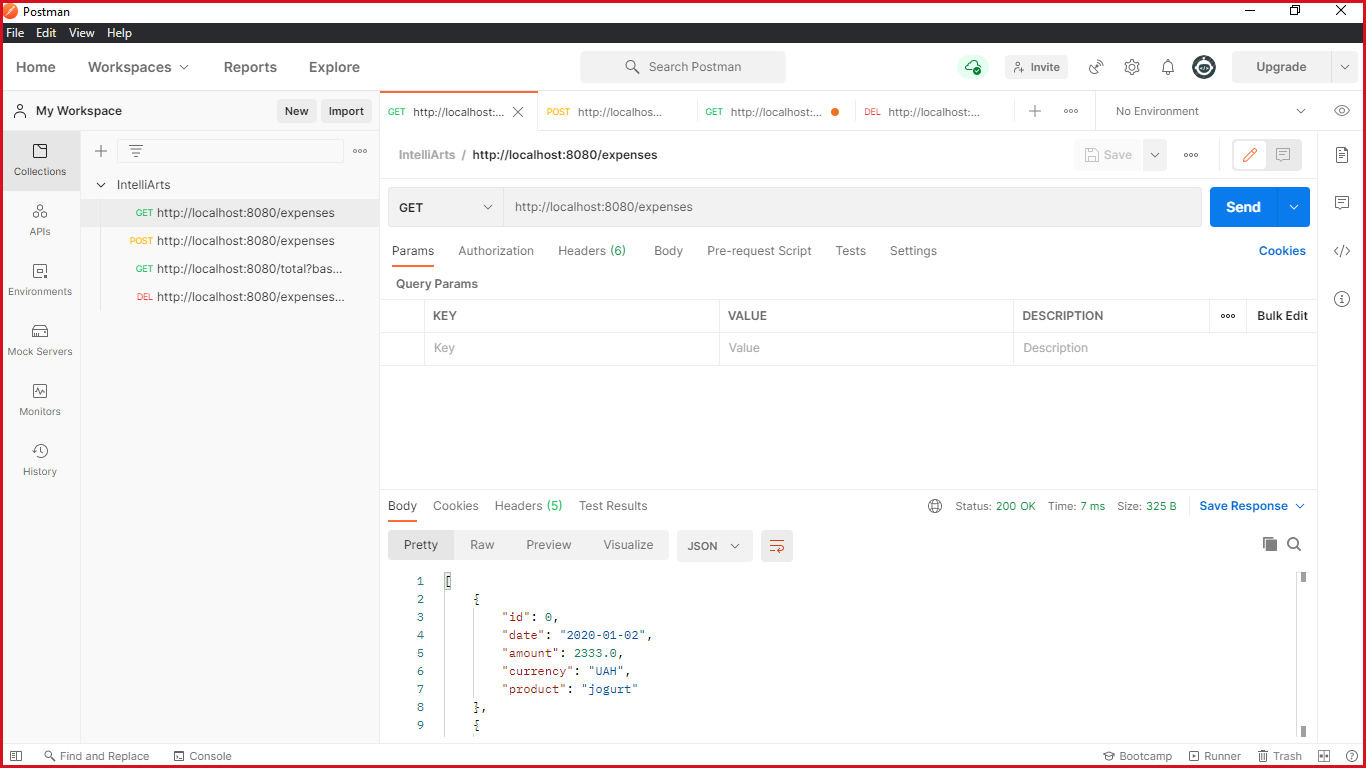
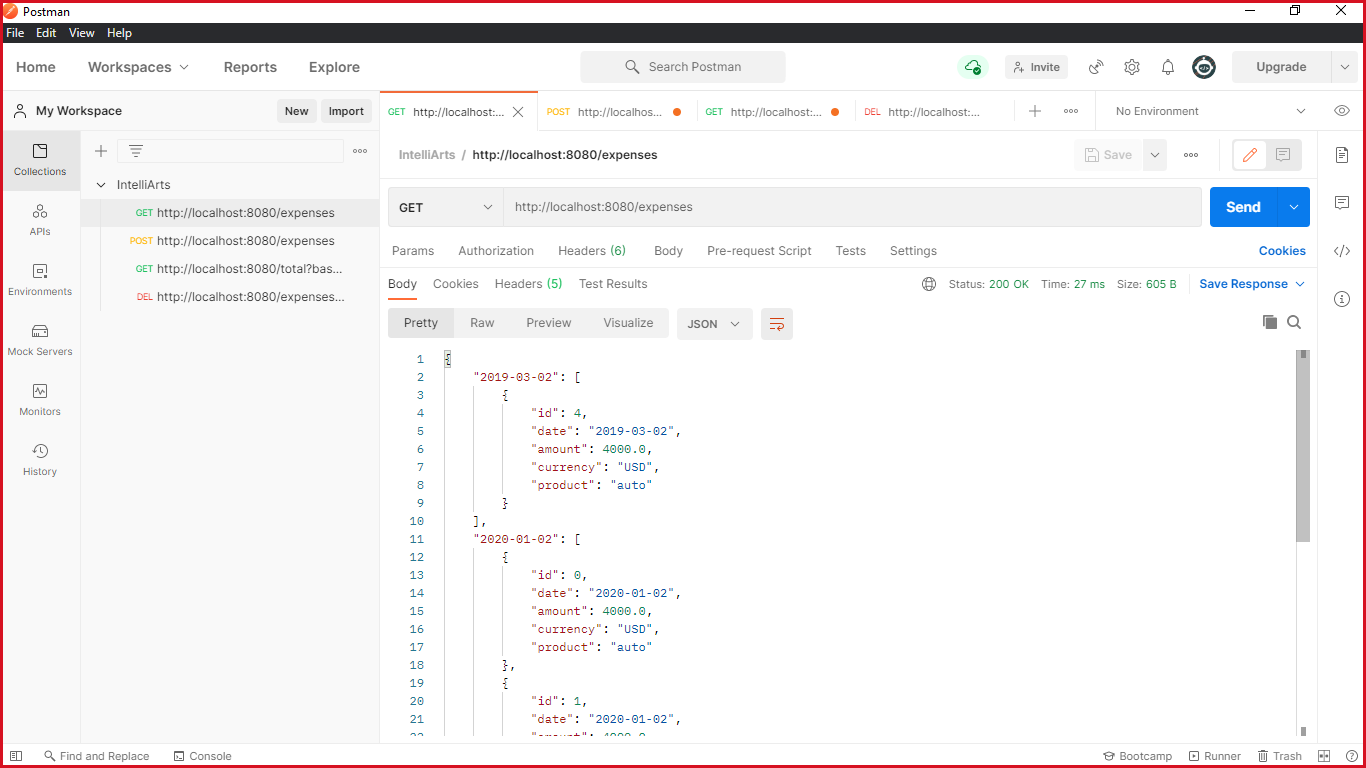
Added group by date

diff --git a/src/main/java/com/inteliArts/orers/projectOfOrders/convertor/ConvertorApi.java b/src/main/java/com/inteliArts/orers/projectOfOrders/convertor/ConvertorApi.java
@@ -2,6 +2,7 @@ package com.inteliArts.orers.projectOfOrders.convertor;
 
 import com.fasterxml.jackson.databind.ObjectMapper;
 import com.inteliArts.orers.projectOfOrders.Exchange.ExchangeApiResponse;
+import org.springframework.beans.factory.annotation.Autowired;
 import org.springframework.stereotype.Component;
 
 import java.io.IOException;
@@ -11,17 +12,12 @@ import java.util.Map;
 @Component
 public class ConvertorApi {
 
-    final ExchangeApiResponse response;
-    private static final String url_str = "https://api.exchangerate.host/latest?base=";
-    private static final ObjectMapper mapper = new ObjectMapper();
-
-    public ConvertorApi(ExchangeApiResponse response) {
-        this.response = response;
-    }
+    private static final String URL = "https://api.exchangerate.host/latest?base=";
+    private static final ObjectMapper MAPPER = new ObjectMapper();
 
     public  Map<String, Double> getRates(String currency) throws IOException {
-        URL url = new URL(url_str + currency);
-        ExchangeApiResponse response = mapper.readValue(url, ExchangeApiResponse.class);
+        URL url = new URL(URL + currency);
+        ExchangeApiResponse response = MAPPER.readValue(url, ExchangeApiResponse.class);
         Map<String, Double> rates = response.getRates();
         return rates;
     }

diff --git a/src/main/java/com/inteliArts/orers/projectOfOrders/controllers/OrderController.java b/src/main/java/com/inteliArts/orers/projectOfOrders/controllers/OrderController.java
@@ -9,6 +9,9 @@ import java.io.IOException;
 import java.time.LocalDate;
 import java.time.format.DateTimeFormatter;
 import java.util.List;
+import java.util.Map;
+import java.util.TreeMap;
+import java.util.stream.Collectors;
 
 @RestController
 public class OrderController {
@@ -21,8 +24,11 @@ public class OrderController {
     }
 
     @GetMapping("/expenses")
-    public List<Order> listOrder() {
-        return dao.getList();
+    public Map<String,List<Order>> listOrder() {
+        return dao.getList().stream()
+                .collect(Collectors.groupingBy(order1 -> order1.getDate().format(DATE_TIME_FORMATTER),
+                        TreeMap::new,
+                        Collectors.toList()));
     }
 
     @PostMapping("/expenses")
@@ -33,7 +39,7 @@ public class OrderController {
 
     @DeleteMapping("/expenses")
     public List<Order> removeOrder(@RequestParam(value = "date") String date) {
-        return dao.removeOrder(LocalDate.parse(date,DATE_TIME_FORMATTER));
+        return dao.removeOrder(LocalDate.parse(date, DATE_TIME_FORMATTER));
     }
 
     @GetMapping("/total")

diff --git a/src/main/java/com/inteliArts/orers/projectOfOrders/dao/DaoImpl.java b/src/main/java/com/inteliArts/orers/projectOfOrders/dao/DaoImpl.java
@@ -1,6 +1,5 @@
 package com.inteliArts.orers.projectOfOrders.dao;
 
-import com.inteliArts.orers.projectOfOrders.Comparator.CompareByDate;
 import com.inteliArts.orers.projectOfOrders.convertor.ConvertorApi;
 import com.inteliArts.orers.projectOfOrders.model.Order;
 import com.inteliArts.orers.projectOfOrders.model.TotalResponse;
@@ -8,7 +7,9 @@ import org.springframework.stereotype.Component;
 
 import java.io.IOException;
 import java.time.LocalDate;
-import java.util.*;
+import java.util.LinkedList;
+import java.util.List;
+import java.util.Map;
 import java.util.stream.Collectors;
 
 @Component
@@ -25,7 +26,6 @@ public class DaoImpl implements Dao {
     }
 
     public List<Order> getList() {
-        Collections.sort(list, new CompareByDate());
         return list;
     }
 
@@ -48,7 +48,6 @@ public class DaoImpl implements Dao {
         double sum = list.stream()
                 .mapToDouble(order -> order.getAmount() / map.get(order.getCurrency()))
                 .sum();
-
         return new TotalResponse(sum,base);
     }
 }

diff --git a/src/main/java/com/inteliArts/orers/projectOfOrders/Exchange/ExchangeApiResponse.java b/src/main/java/com/inteliArts/orers/projectOfOrders/Exchange/ExchangeApiResponse.java
@@ -1,11 +1,9 @@
 package com.inteliArts.orers.projectOfOrders.Exchange;
 
 import com.fasterxml.jackson.annotation.JsonIgnoreProperties;
-import org.springframework.stereotype.Component;
 
 import java.util.Map;
 
-@Component
 @JsonIgnoreProperties(ignoreUnknown = true)
 public class ExchangeApiResponse {
         private String base;
